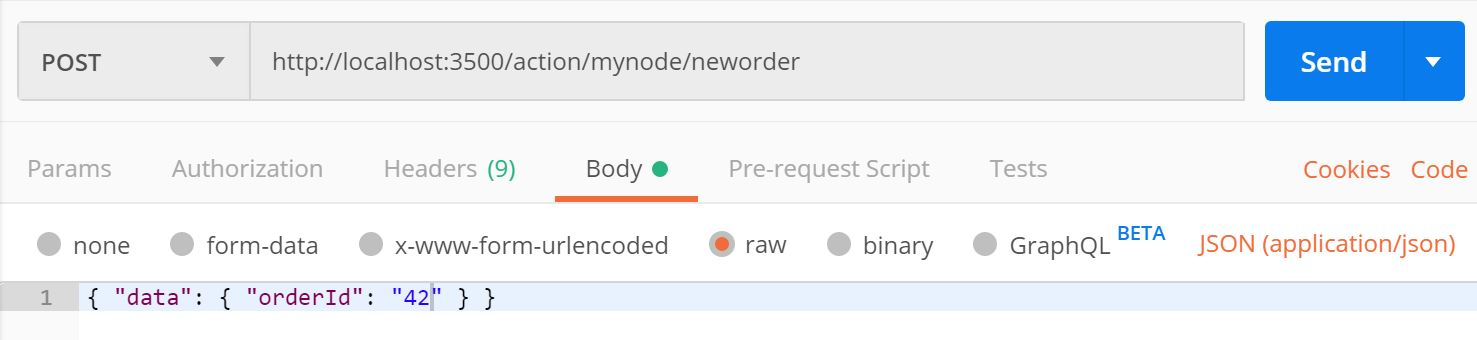
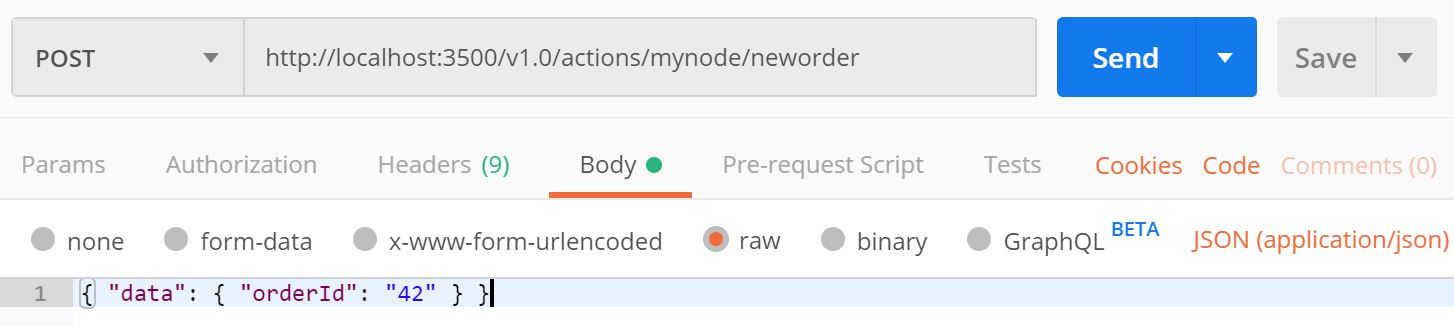
updated standalone sample

diff --git a/samples/local_zero_to_hero/app.js b/samples/local_zero_to_hero/app.js
@@ -5,11 +5,11 @@ require('isomorphic-fetch');
 const app = express();
 app.use(bodyParser.json());
 
-const actionsUrl = `http://localhost:${process.env.ACTIONS_PORT}`;
+const stateUrl = `http://localhost:${process.env.ACTIONS_PORT}/v1.0/state`;
 const port = 3000;
 
 app.get('/order', (_req, res) => {
-    fetch(`${actionsUrl}/state/order`)
+    fetch(`${stateUrl}/order`)
         .then((response) => {
             return response.json();
         }).then((orders) => {
@@ -27,7 +27,7 @@ app.post('/neworder', (req, res) => {
         value: data
     }];
 
-    fetch(`${actionsUrl}/state`, {
+    fetch(stateUrl, {
         method: "POST",
         body: JSON.stringify(state),
         headers: {
